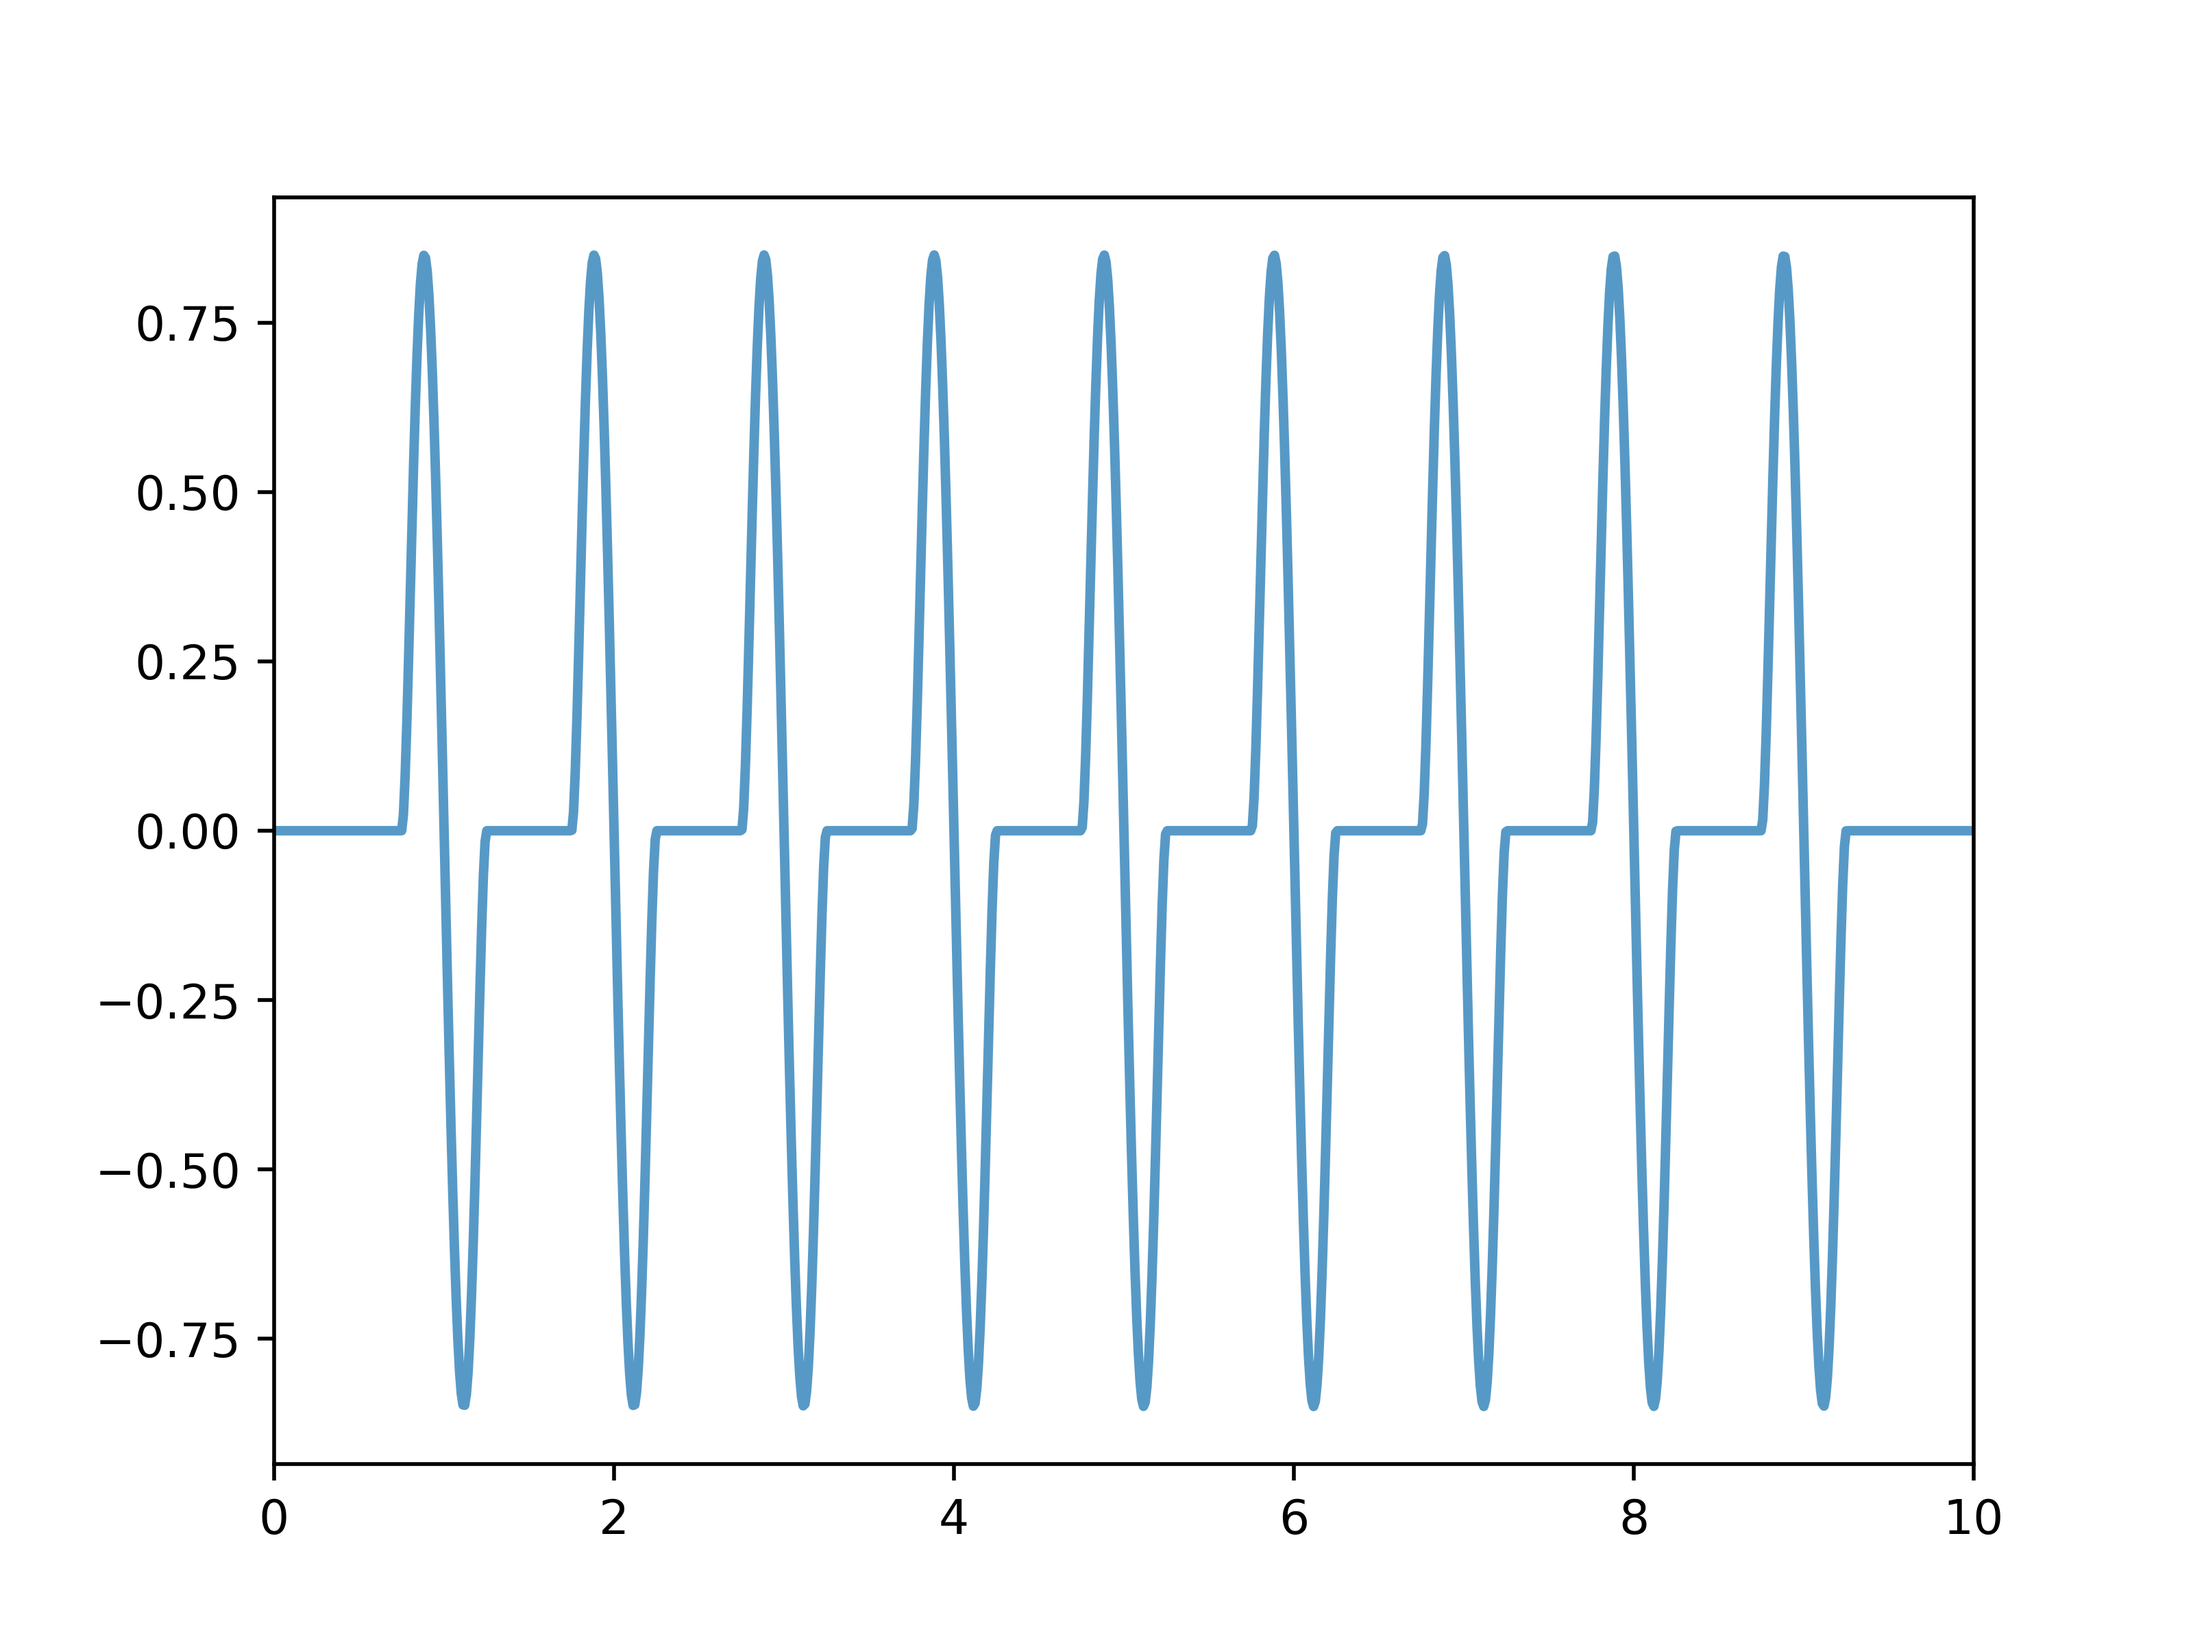
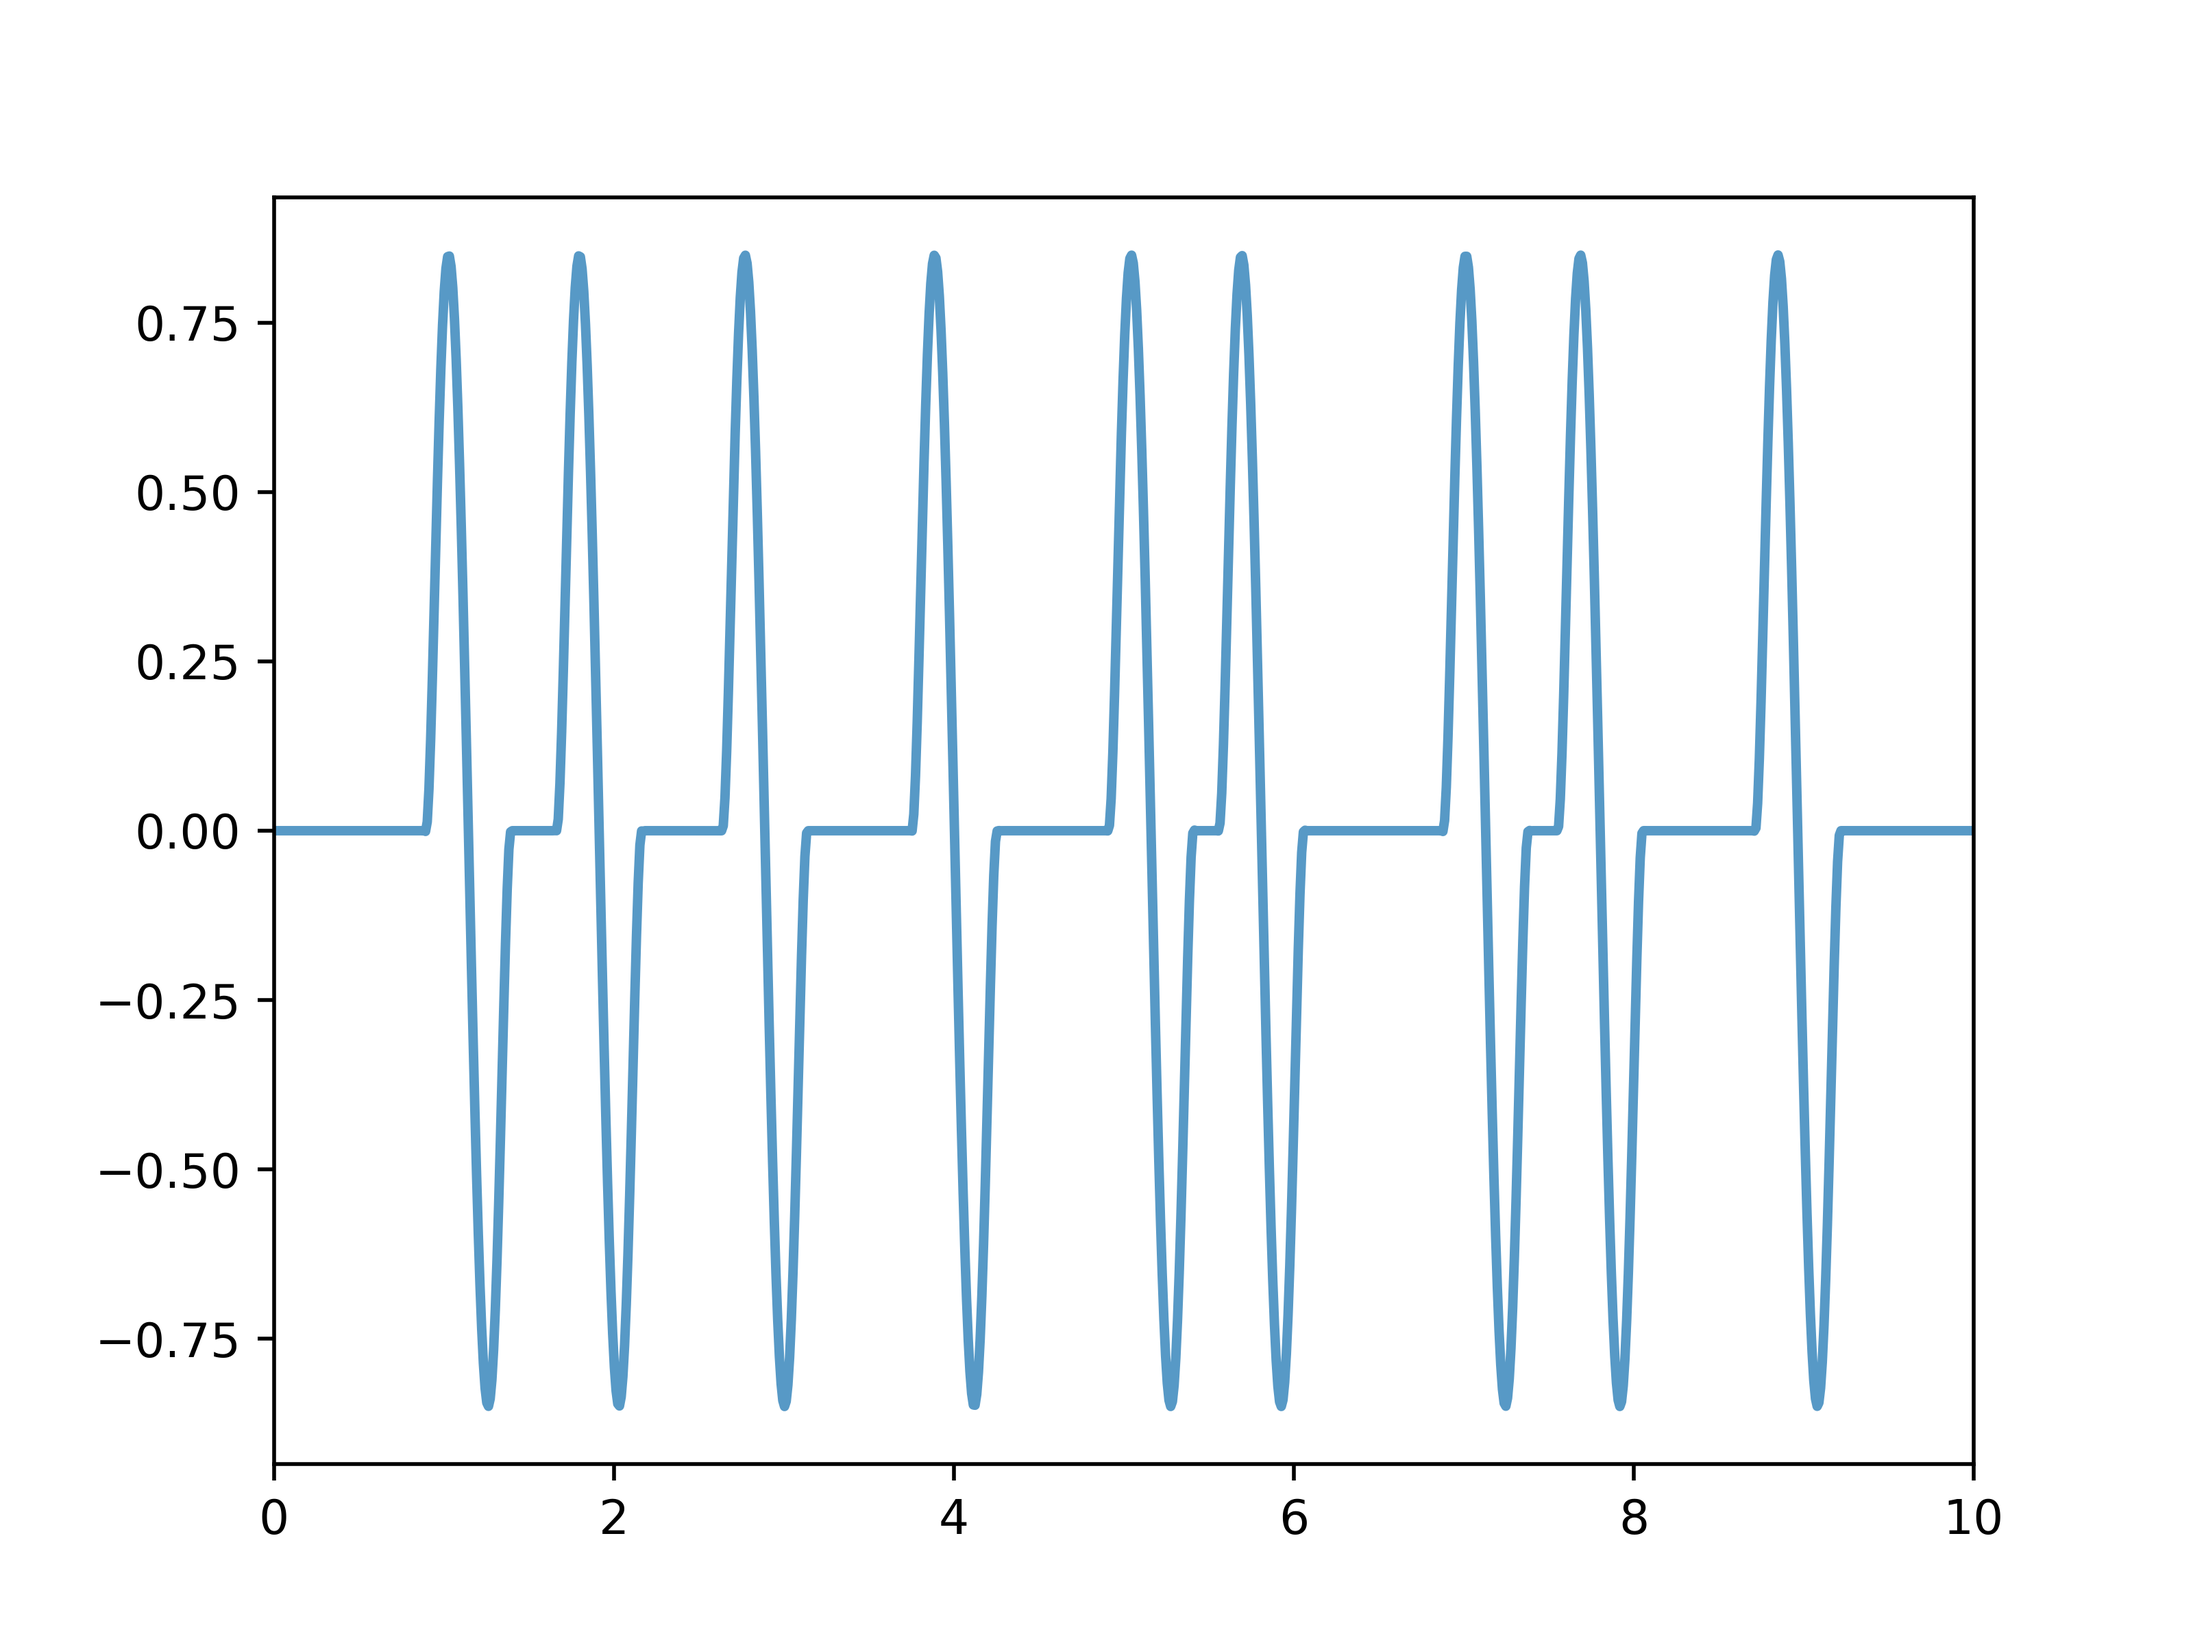
update

diff --git a/1d/test.py b/1d/test.py
@@ -44,10 +44,11 @@ coefplotfile="test_figs/coeff.png"
 mesh = IntervalMesh(nelts, x0, x1)
 x , = SpatialCoordinate(mesh)
 nn=x1-x0-1
-d=-dmax+np.random.rand(nn)*(2*dmax)
+dn=-dmax+np.random.rand(nn)*(2*dmax)
 f_sum=0.0
 for i in range(nn):
-   f_sum=f_sum + conditional(abs(x-(i+1))>s,0,6/8*(x-(i+1))*(1-pow(x-(i+1),2)/pow(s,2))**3-6/(8*pow(s,2))*(x-(i+1))*(1-pow(x-(i+1),2)/pow(s,2))**2*(3*pow(x-(i+1),2)+1))
+   x_center=i+1+dn[i]
+   f_sum=f_sum + conditional(abs(x-x_center)>s,0,6/8*(x-x_center)*(1-pow(x-x_center,2)/pow(s,2))**3-6/(8*pow(s,2))*(x-x_center)*(1-pow(x-x_center,2)/pow(s,2))**2*(3*pow(x-x_center,2)+1))
 aelt='CG'
 adeg=3
 F = assemble(interpolate(f_sum, FunctionSpace(mesh, aelt, adeg)))
